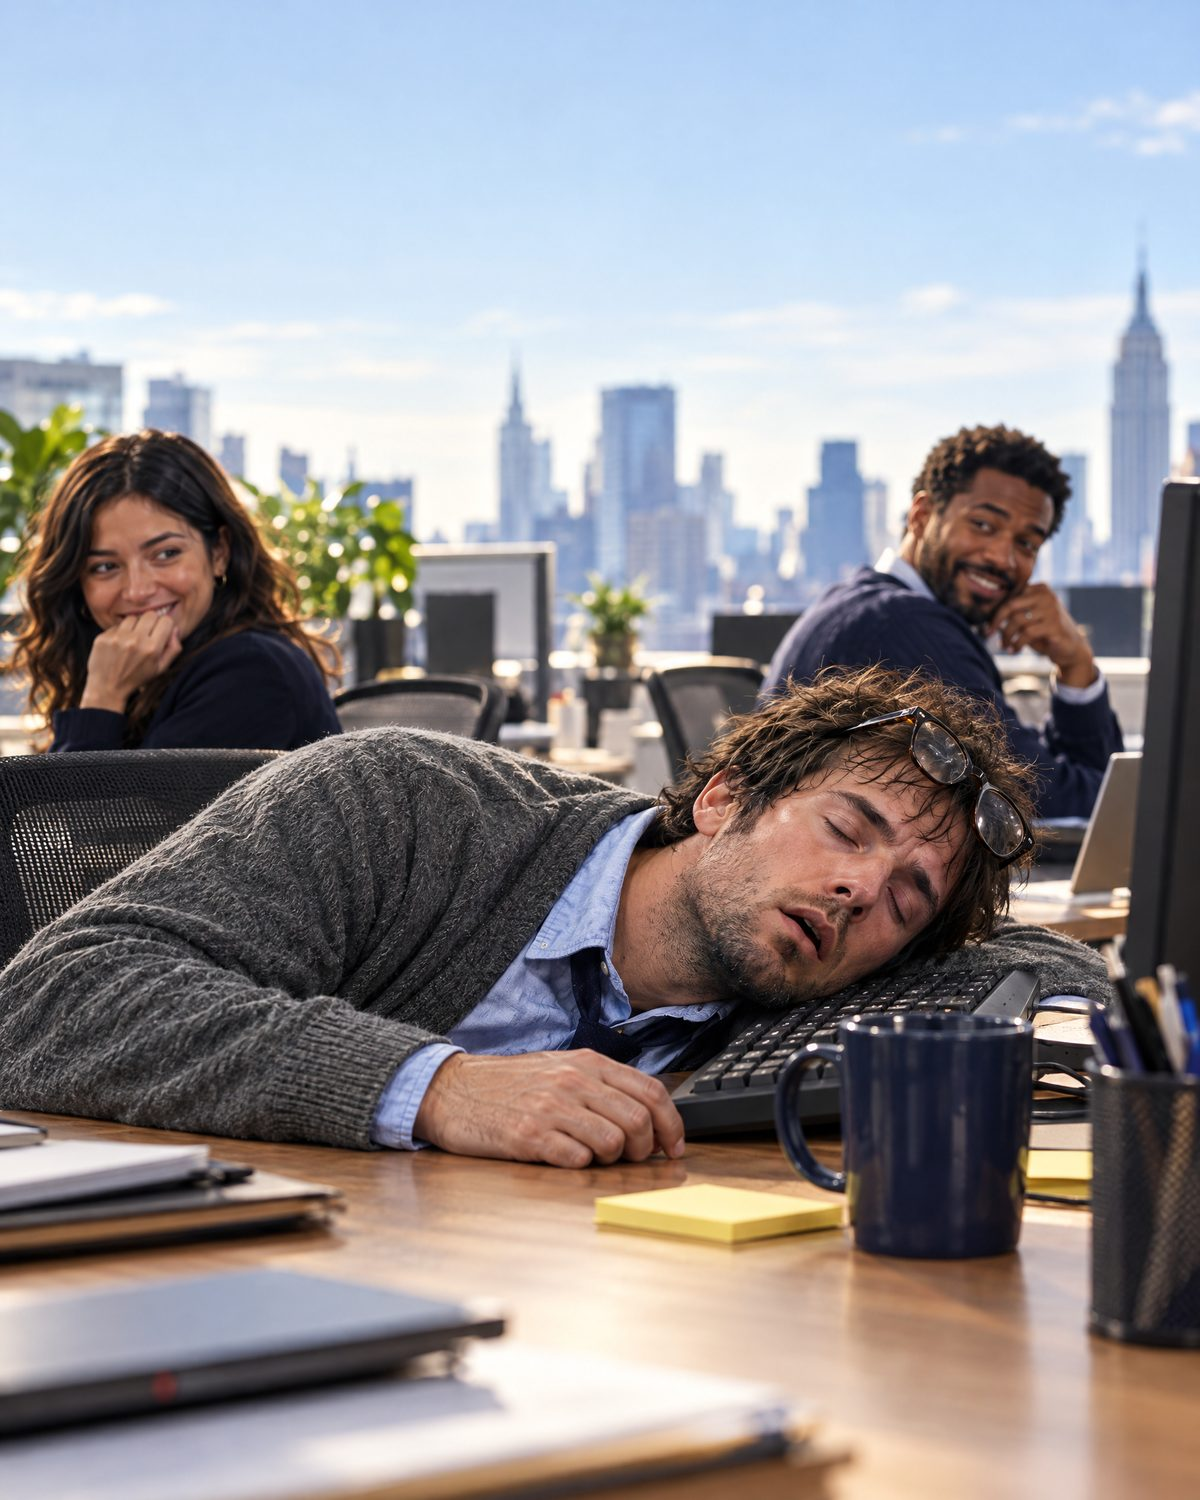
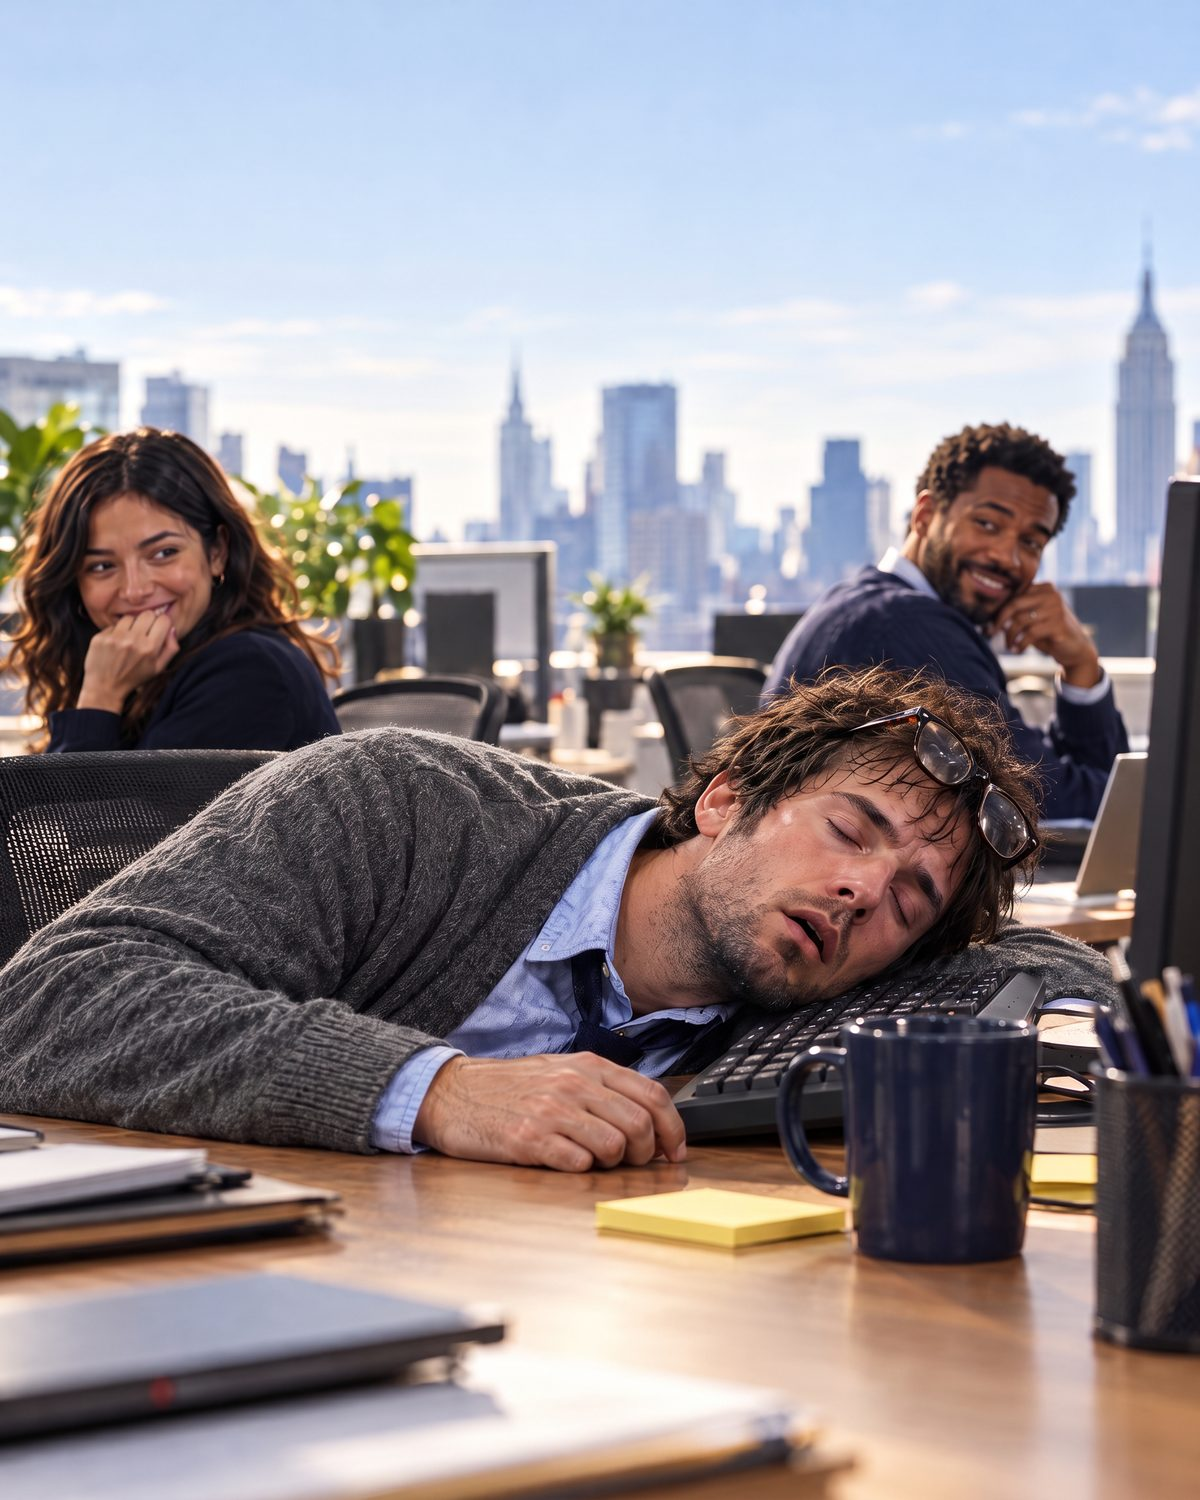
Update: sleepare-review-a-66nk (by equipo via noetic-proposals-mcp)

diff --git a/sleepare-review-a-66nk/index.html b/sleepare-review-a-66nk/index.html
@@ -222,19 +222,19 @@ body{overflow-x:clip}
 <div class="sp-row" style="align-items:center;margin-top:calc(var(--u)*30)"><span class="sp-logo white"></span><span class="sp-pill">Book a visit</span></div></div></div></figure><p class="ad-cap">Static · 4:5 · Execution</p></div><div class="ad-cell "><figure class="sp-ad " role="img" aria-label="New York’s insomnia isn’t contagious."><img class="sp-bg" src="assets/ads/r02_city.jpg" alt="" loading="lazy" style="object-position:50% 40%"><div class="sp-scrim tb2"></div>
 <div class="sp-in"><div class="sp-top"><span class="sp-logo white"></span><div style="height:calc(var(--u)*30)"></div>
 <p class="sp-h white sp-shadow">New York’s insomnia <span class="coral">isn’t&nbsp;contagious.</span></p></div>
-<div class="sp-row" style="align-items:center"><span class="sp-chip">Now open 24h on weekends</span><span class="sp-pill">Book a visit</span></div></div></figure><p class="ad-cap">Static · 4:5 · Execution</p></div></div></div></section><section data-dc-tpl="176" id="route-03" style="background: rgb(250, 250, 247);"><div data-dc-tpl="177" style="max-width: 1240px; margin: 0px auto; padding: clamp(80px, 10vw, 140px) 32px; box-sizing: border-box; display: flex; flex-direction: column; gap: 56px;"><div data-dc-tpl="178" style="display: flex; flex-direction: column; gap: 28px;"><div data-dc-tpl="179"><div class="sc-host-x" data-dc-tpl="180" style="display: contents;"><span style="display: inline-flex; align-items: center; border-radius: 999px; box-shadow: inset 0 0 0 1.5px var(--editorial-purple); padding: 10px 22px; font-family: Inter, sans-serif; font-weight: 500; font-size: 12px; letter-spacing: 0.16em; text-transform: uppercase; color: var(--editorial-purple); white-space: nowrap;">Route 03 · Sleepy Tom</span></div></div><h2 data-dc-tpl="181" style="margin: 0px; font-family: var(--font-editorial-display); font-weight: 400; font-size: clamp(48px, 8vw, 116px); line-height: 0.98; letter-spacing: -0.03em;">Meet Tom.<br data-dc-tpl="182"><span data-dc-tpl="183" style="color: rgb(108, 92, 231);">Tom is always sleepy.</span></h2></div><div data-dc-tpl="184" style="display: grid; grid-template-columns: repeat(auto-fit, minmax(300px, 1fr)); gap: 32px 64px; max-width: 1100px;"><div data-dc-tpl="185" style="display: flex; flex-direction: column; gap: 18px; color: rgb(26, 26, 31);"><p data-dc-tpl="186" style="margin: 0px;">Not professionally. Not medically. Just the most exhausted man in New York. Maybe you’re Tom.</p><p data-dc-tpl="187" style="margin: 0px;">He has a remarkable talent for falling asleep absolutely anywhere. If there’s a horizontal surface, Tom has probably considered it.</p></div><div data-dc-tpl="188" style="display: flex; flex-direction: column; gap: 18px; color: rgb(26, 26, 31);"><p data-dc-tpl="189" style="margin: 0px;">There’s just one problem. For someone who sleeps everywhere, Tom has never found the right mattress.</p><p data-dc-tpl="190" style="margin: 0px; font-weight: 700; font-size: 21px; color: rgb(10, 10, 14);">Until now.</p></div></div><div data-dc-tpl="191" style="display: flex; flex-direction: column; gap: 20px;"><span data-dc-tpl="192" style="font-family: var(--font-editorial-mono); font-size: 12px; letter-spacing: 0.14em; text-transform: uppercase; color: rgb(107, 107, 123);">A day in Tom’s life · the episodes</span><div class="ad-grid g5"><div class="ad-cell "><figure class="sp-ad " role="img" aria-label="Sleepy Tom EP. 01. On the subway."><img class="sp-bg" src="assets/ads/tom_subway.jpg" alt="" loading="lazy" style="object-position:50% 60%"><div class="sp-scrim tb"></div>
+<div class="sp-row" style="align-items:center"><span class="sp-chip">Now open 24h on weekends</span><span class="sp-pill">Book a visit</span></div></div></figure><p class="ad-cap">Static · 4:5 · Execution</p></div></div></div></section><section data-dc-tpl="176" id="route-03" style="background: rgb(250, 250, 247);"><div data-dc-tpl="177" style="max-width: 1240px; margin: 0px auto; padding: clamp(80px, 10vw, 140px) 32px; box-sizing: border-box; display: flex; flex-direction: column; gap: 56px;"><div data-dc-tpl="178" style="display: flex; flex-direction: column; gap: 28px;"><div data-dc-tpl="179"><div class="sc-host-x" data-dc-tpl="180" style="display: contents;"><span style="display: inline-flex; align-items: center; border-radius: 999px; box-shadow: inset 0 0 0 1.5px var(--editorial-purple); padding: 10px 22px; font-family: Inter, sans-serif; font-weight: 500; font-size: 12px; letter-spacing: 0.16em; text-transform: uppercase; color: var(--editorial-purple); white-space: nowrap;">Route 03 · Sleepy Tom</span></div></div><h2 data-dc-tpl="181" style="margin: 0px; font-family: var(--font-editorial-display); font-weight: 400; font-size: clamp(48px, 8vw, 116px); line-height: 0.98; letter-spacing: -0.03em;">Meet Tom.<br data-dc-tpl="182"><span data-dc-tpl="183" style="color: rgb(108, 92, 231);">Tom is always sleepy.</span></h2></div><div data-dc-tpl="184" style="display: grid; grid-template-columns: repeat(auto-fit, minmax(300px, 1fr)); gap: 32px 64px; max-width: 1100px;"><div data-dc-tpl="185" style="display: flex; flex-direction: column; gap: 18px; color: rgb(26, 26, 31);"><p data-dc-tpl="186" style="margin: 0px;">Not professionally. Not medically. Just the most exhausted man in New York. Maybe you’re Tom.</p><p data-dc-tpl="187" style="margin: 0px;">He has a remarkable talent for falling asleep absolutely anywhere. If there’s a horizontal surface, Tom has probably considered it.</p></div><div data-dc-tpl="188" style="display: flex; flex-direction: column; gap: 18px; color: rgb(26, 26, 31);"><p data-dc-tpl="189" style="margin: 0px;">There’s just one problem. For someone who sleeps everywhere, Tom has never found the right mattress.</p><p data-dc-tpl="190" style="margin: 0px; font-weight: 700; font-size: 21px; color: rgb(10, 10, 14);">Until now.</p></div></div><div data-dc-tpl="191" style="display: flex; flex-direction: column; gap: 20px;"><span data-dc-tpl="192" style="font-family: var(--font-editorial-mono); font-size: 12px; letter-spacing: 0.14em; text-transform: uppercase; color: rgb(107, 107, 123);">A day in Tom’s life · the episodes</span><div class="ad-grid g5"><div class="ad-cell "><figure class="sp-ad " role="img" aria-label="Sleepy Tom EP. 01. On the subway."><img class="sp-bg" src="assets/ads/tom_subway.jpg?v=2" alt="" loading="lazy" style="object-position:50% 60%"><div class="sp-scrim tb"></div>
 <div class="sp-in"><div class="sp-top"><span class="sp-tag">EP. 01</span><p class="sp-k" style="margin-top:calc(var(--u)*6)">Meet Sleepy Tom</p>
 <p class="sp-h l white sp-shadow">On the subway.</p></div>
-<div class="sp-row" style="align-items:center"><span class="sp-logo white"></span></div></div></figure><p class="ad-cap">Ep. 01 · 4:5</p></div><div class="ad-cell "><figure class="sp-ad light" role="img" aria-label="Sleepy Tom EP. 02. At his desk."><img class="sp-bg" src="assets/ads/tom_desk.jpg" alt="" loading="lazy" style="object-position:50% 60%"><div class="sp-scrim" style="background:linear-gradient(180deg,rgba(250,246,238,.88) 0%,rgba(250,246,238,.5) 26%,rgba(250,246,238,0) 44%),linear-gradient(0deg,rgba(15,19,48,.8) 0%,rgba(15,19,48,0) 24%)"></div>
+<div class="sp-row" style="align-items:center"><span class="sp-logo white"></span></div></div></figure><p class="ad-cap">Ep. 01 · 4:5</p></div><div class="ad-cell "><figure class="sp-ad light" role="img" aria-label="Sleepy Tom EP. 02. At his desk."><img class="sp-bg" src="assets/ads/tom_desk.jpg?v=2" alt="" loading="lazy" style="object-position:50% 60%"><div class="sp-scrim" style="background:linear-gradient(180deg,rgba(250,246,238,.88) 0%,rgba(250,246,238,.5) 26%,rgba(250,246,238,0) 44%),linear-gradient(0deg,rgba(15,19,48,.8) 0%,rgba(15,19,48,0) 24%)"></div>
 <div class="sp-in"><div class="sp-top"><span class="sp-tag">EP. 02</span><p class="sp-k" style="margin-top:calc(var(--u)*6)">Meet Sleepy Tom</p>
 <p class="sp-h l royal">At his desk.</p></div>
-<div class="sp-row" style="align-items:center"><span class="sp-logo white"></span></div></div></figure><p class="ad-cap">Ep. 02 · 4:5</p></div><div class="ad-cell "><figure class="sp-ad " role="img" aria-label="Sleepy Tom EP. 03. At family dinner."><img class="sp-bg" src="assets/ads/tom_dinner.jpg" alt="" loading="lazy" style="object-position:50% 70%"><div class="sp-scrim tb"></div>
+<div class="sp-row" style="align-items:center"><span class="sp-logo white"></span></div></div></figure><p class="ad-cap">Ep. 02 · 4:5</p></div><div class="ad-cell "><figure class="sp-ad " role="img" aria-label="Sleepy Tom EP. 03. At family dinner."><img class="sp-bg" src="assets/ads/tom_dinner.jpg?v=2" alt="" loading="lazy" style="object-position:50% 70%"><div class="sp-scrim tb"></div>
 <div class="sp-in"><div class="sp-top"><span class="sp-tag">EP. 03</span><p class="sp-k" style="margin-top:calc(var(--u)*6)">Meet Sleepy Tom</p>
 <p class="sp-h l white sp-shadow">At family dinner.</p></div>
-<div class="sp-row" style="align-items:center"><span class="sp-logo white"></span></div></div></figure><p class="ad-cap">Ep. 03 · 4:5</p></div><div class="ad-cell "><figure class="sp-ad " role="img" aria-label="Sleepy Tom EP. 04. On a park bench."><img class="sp-bg" src="assets/ads/tom_bench.jpg" alt="" loading="lazy" style="object-position:50% 70%"><div class="sp-scrim tb"></div>
+<div class="sp-row" style="align-items:center"><span class="sp-logo white"></span></div></div></figure><p class="ad-cap">Ep. 03 · 4:5</p></div><div class="ad-cell "><figure class="sp-ad " role="img" aria-label="Sleepy Tom EP. 04. On a park bench."><img class="sp-bg" src="assets/ads/tom_bench.jpg?v=2" alt="" loading="lazy" style="object-position:50% 70%"><div class="sp-scrim tb"></div>
 <div class="sp-in"><div class="sp-top"><span class="sp-tag">EP. 04</span><p class="sp-k" style="margin-top:calc(var(--u)*6)">Meet Sleepy Tom</p>
 <p class="sp-h l white sp-shadow">On a park bench.</p></div>
-<div class="sp-row" style="align-items:center"><span class="sp-logo white"></span></div></div></figure><p class="ad-cap">Ep. 04 · 4:5</p></div><div class="ad-cell "><figure class="sp-ad " role="img" aria-label="Sleepy Tom finale. At SleePare, finally."><img class="sp-bg" src="assets/ads/tom_finale.jpg" alt="" loading="lazy" style="object-position:50% 70%"><div class="sp-scrim tb"></div>
+<div class="sp-row" style="align-items:center"><span class="sp-logo white"></span></div></div></figure><p class="ad-cap">Ep. 04 · 4:5</p></div><div class="ad-cell "><figure class="sp-ad " role="img" aria-label="Sleepy Tom finale. At SleePare, finally."><img class="sp-bg" src="assets/ads/tom_finale.jpg?v=2" alt="" loading="lazy" style="object-position:50% 70%"><div class="sp-scrim tb"></div>
 <div class="sp-in"><div class="sp-top"><span class="sp-tag">FINALE</span>
 <p class="sp-h l white sp-shadow" style="margin-top:calc(var(--u)*6)">At SleePare, <span class="amber">finally.</span></p></div>
 <div class="sp-bot"><p class="sp-sub white sp-shadow">Now he can try mattresses anytime on weekends.</p>
